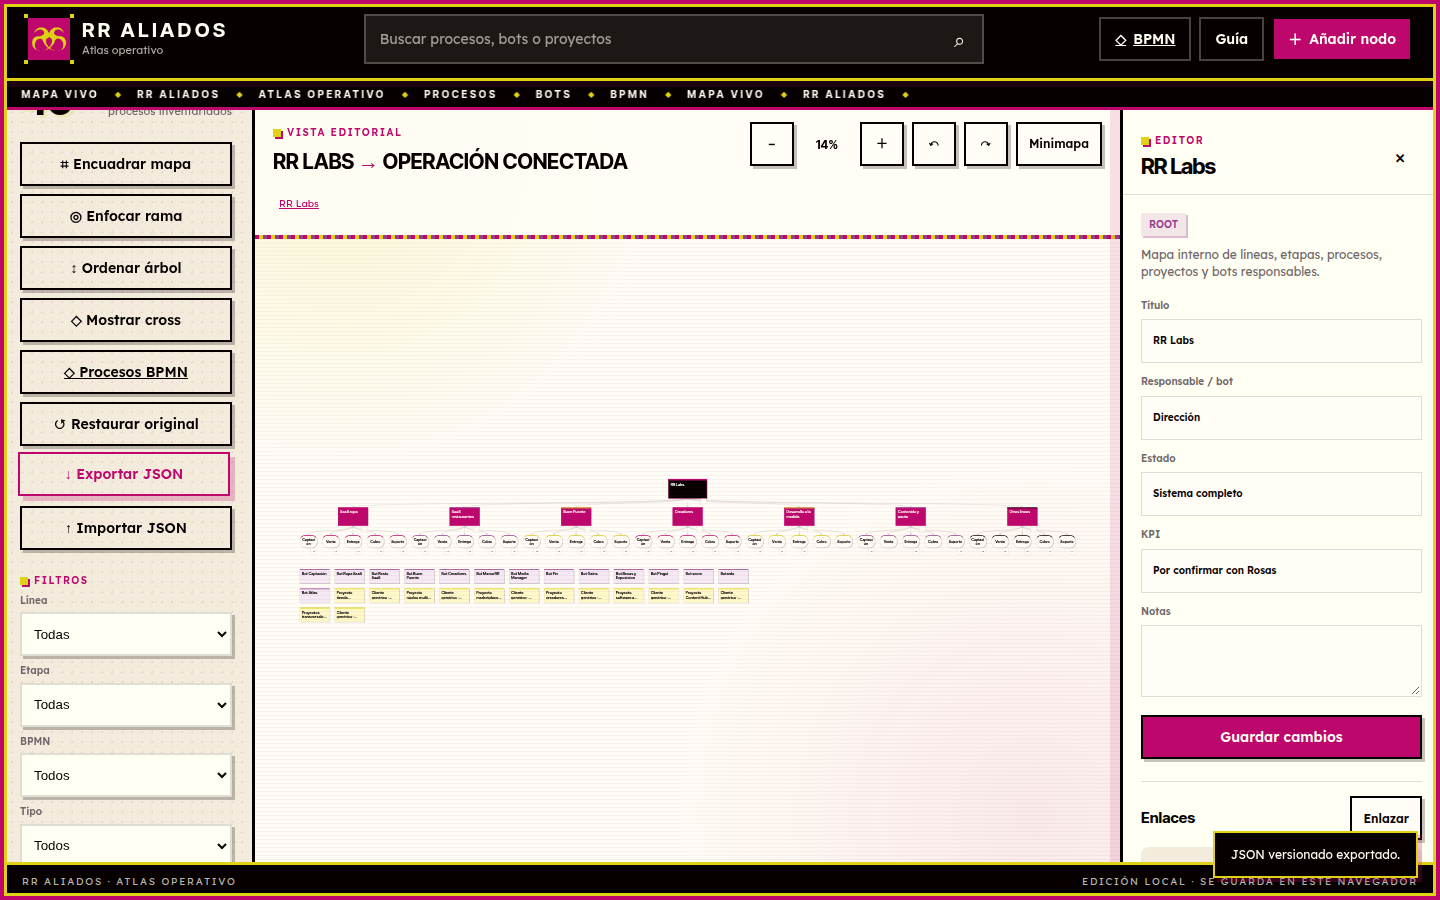
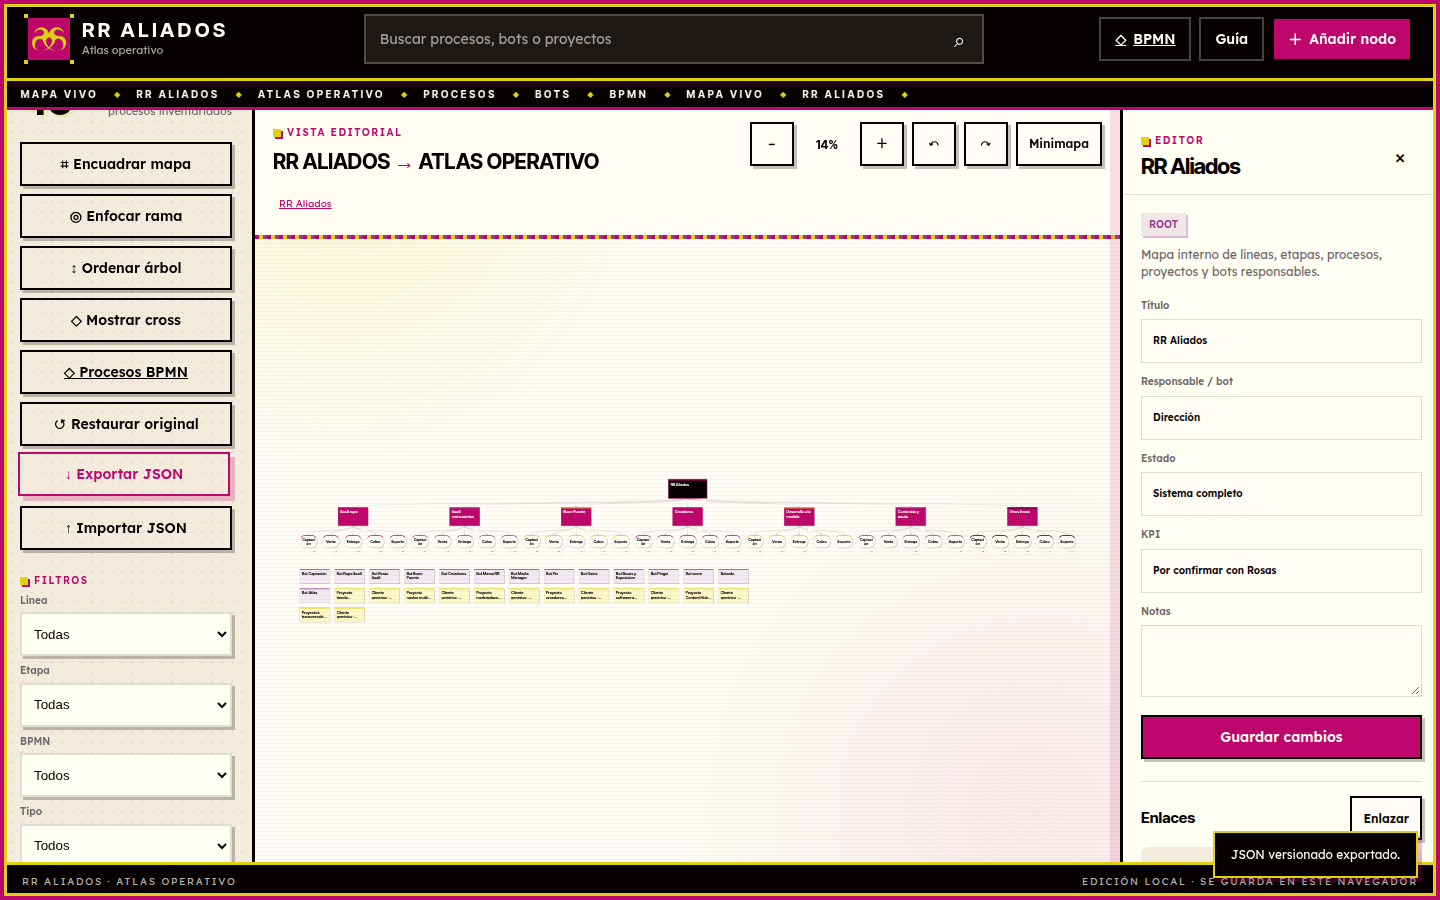
docs: preguntas abiertas del bloque 7 (estilo de contenido de las semillas y nombres)

diff --git a/docs/fusion/PREGUNTAS.md b/docs/fusion/PREGUNTAS.md
@@ -54,6 +54,13 @@ Formato: `TODO(Rosas): ...`
 - RESUELTO: **Bots vigentes** — Buen Puente y Becas de Exposición; Media Manager y Gains quedan «sin confirmar».
 - RESUELTO: **Lo menor** (estados vacíos, catálogo, tamaños) se decide con el criterio más profesional, sin preguntar.
 
+## Abiertas por el bloque 7 (2026-11-02, item 7 y item B)
+- TODO(Rosas): Las semillas BPMN ya no tienen errores ni avisos de las reglas estructurales de bpmnlint (las 8 compuertas que abrían y cerraron se dividieron en join + fork, se pusieron las uniones que faltaban y se quitaron las etiquetas de sobra). Quedan dos avisos de **estilo de contenido** del plugin de RR: 43 carriles se llaman como una etapa («1 · Prioridad») y 109 tareas no están en infinitivo de 2 a 6 palabras («2. Se anota»). ¿Se hace un pase de escritura de los 16 diagramas con el equipo (carriles = roles, tareas en infinitivo) o se relajan esas dos reglas del plugin?
+- TODO(Rosas): En las fuentes de RR el cliente es «IMF Visions»; en la decisión del 2-nov sale «IMF Weddings». ¿Es el mismo cliente y se deja el nombre canónico de la fuente, o se corrige la fuente?
+- TODO(Rosas): Wundeer quedó «En pausa» por la decisión de estados de clientes (solo BOGA, Candilejas e IMF quedan activos), aunque la fuente lo describe como desarrollo mostrado con contrato pendiente. ¿Se deja en pausa o se abre la excepción?
+- TODO(Rosas): En celular el nodo del mapa no se arrastra (el dedo mueve y pellizca el tablero) y el arrastre de nodos quedó solo para ratón. ¿Se quiere un modo «editar mapa» en móvil?
+- TODO(Rosas): El menú «⋯» del diagrama (deshacer, rehacer, guardar, restaurar, exportar) solo existe en celular. ¿Se deja así o se muestra también en escritorio al lado de la barra?
+
 ## Abiertas por el bloque 4 (2026-11-02, item 4)
 - TODO(Rosas): La ficha de cada diagrama (qué busca, disparador, resultado y el camino paso a paso) sale del guion de procesos del mega prompt §6. ¿Se revisa esa redacción o se deja como texto de lectura provisional hasta que el equipo la valide?
 - TODO(Rosas): La leyenda de colores dice qué significa cada color RR (crema = paso normal, fucsia = se traba, mostaza = atención, orquídea = carriles, gris = datos). ¿Es la convención que quiere la marca o se cambia?
